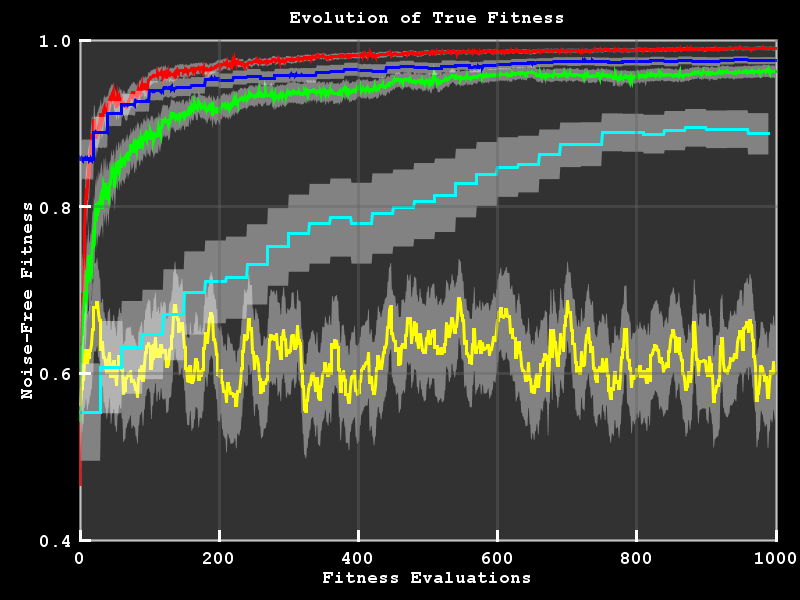
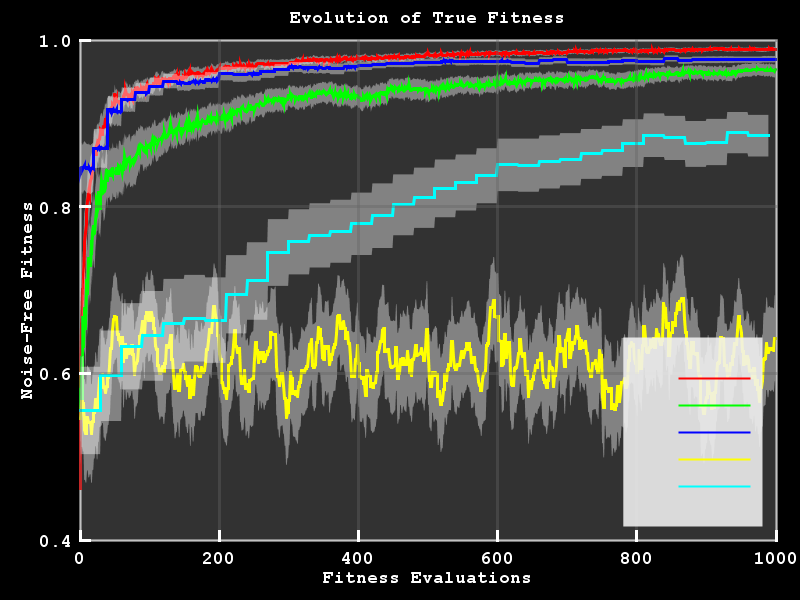
Work towards a legend / key
Currently shows a box with the lines in, but now needs to add in the name of each line - e.g. RMHC(5)

Changed region(s): [[0.0938, 0.06, 0.9688, 0.9], [0.5625, 0.18, 0.9688, 0.33]]

diff --git a/src/plot/LineChart.java b/src/plot/LineChart.java
@@ -17,7 +17,7 @@ import java.util.List;
 public class LineChart extends JComponent {
 
     Dimension d;
-    Color fg = new Color(20, 20, 150);
+    Color fg = Color.white;
     Color bg = Color.black; // new Color( 200, 200, 255 );
     ArrayList<LinePlot> lines;
     ArrayList<LineGroup> lineGroups;
@@ -198,6 +198,41 @@ public class LineChart extends JComponent {
         drawTitle(g, size);
         drawXLabel(g, size);
         drawYLabel(g, size);
+        drawLegend(g, size);
+    }
+
+    private void drawLegend(Graphics2D g, Dimension size) {
+
+        if (lineGroups == null) return;
+
+        double plotWidth = plotRight - plotLeft;
+
+        double lineLength = plotWidth / 10;
+        g.setFont(new Font("Monospaced", Font.BOLD, getFontSize(size)));
+
+        // first draw in the lines
+
+        double gap = getFontSize(size) * 1.5;
+        double top = plotBottom + gap * (lineGroups.size() + 1);
+
+        double boxWidth = 2 * lineLength;
+        double boxHeight = gap * (lineGroups.size() + 2);
+        Rectangle2D.Double rect = new Rectangle2D.Double(plotRight - gap/2 - boxWidth, plotBottom + gap/2, boxWidth, boxHeight);
+        g.setColor(new Color(240, 240, 240, 225));
+        g.fill(rect);
+
+
+        for (LineGroup lineGroup : lineGroups) {
+            Path2D path = new Path2D.Double();
+            path.moveTo(plotRight - gap - lineLength, top);
+            path.lineTo(plotRight - gap, top);
+            top -= gap;
+            g.setColor(lineGroup.color);
+            // change this to better styles later
+            g.setStroke(new BasicStroke(2));
+            g.draw(path);
+        }
+        // Rectangle2D rect = new Rectangle2D.Double()
     }
 
 

diff --git a/src/plot/LineGroup.java b/src/plot/LineGroup.java
@@ -9,6 +9,7 @@ import java.util.ArrayList;
  * Created by Simon Lucas on 15/07/2017.
  */
 public class LineGroup {
+    public String name;
     ArrayList<StatSummary> stats;
     public Color color = Color.white;
 
@@ -18,6 +19,11 @@ public class LineGroup {
 
     public LineGroup setColor(Color color) {
         this.color = color;
+        return this;
+    }
+
+    public LineGroup setName(String name) {
+        this.name = name;
         return this;
     }
 
